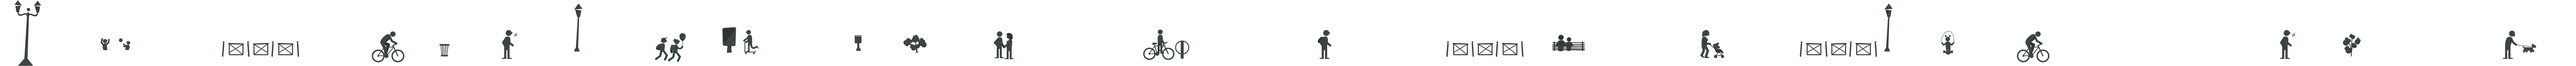
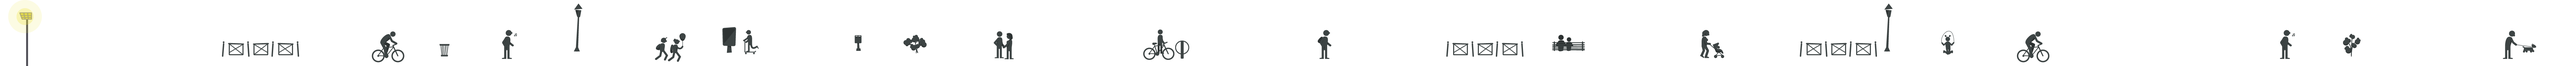
Updated frise

Changed region(s): [[0.0, 0.0, 0.0312, 0.4976], [0.0312, 0.5854, 0.0623, 0.7317], [0.0, 0.9366, 0.0312, 1.0]]

diff --git a/app/views/landscape.html b/app/views/landscape.html
@@ -15,7 +15,7 @@
   <div ng-class="{active: activeZone == 1}" class="zone-1 zone">
     <div ng-click="zone(1)" class="clickable"></div>
     <div ng-style="{color: getDetail(1).color1}" class="name">{{getDetail(1).name}}</div>
-    <img src="images/landscape/01-pilotis.png" width="250" height="212"/>
+    <img src="images/landscape/01-avion.png" width="348" height="165"/>
   </div>
 
   <div ng-class="{active: activeZone == 2}" class="zone-2 zone">

diff --git a/app/styles/landscape.scss b/app/styles/landscape.scss
@@ -129,10 +129,10 @@
     }
 
     .zone-1 {
-        left:355px;
-        top:91px;
-        width:250px;
-        height:212px;
+      	left:180px;
+      	top:163px;
+      	width:348px;
+      	height:165px;
     }
 
     .zone-2{
@@ -194,9 +194,9 @@
 
     .zone-10{
         left:2550px;
-        top:115px;
+        top:105px;
         width:323px;
-        height:179px;
+        height:200px;
     }
 
 
